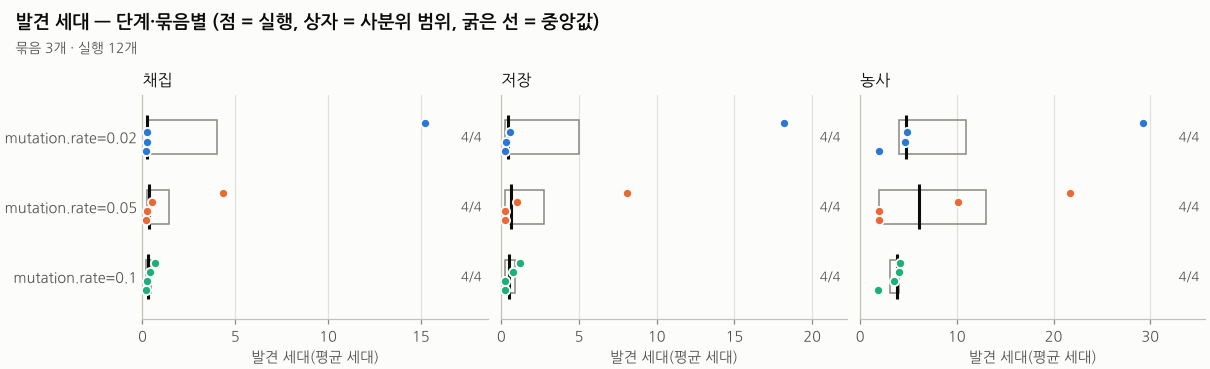
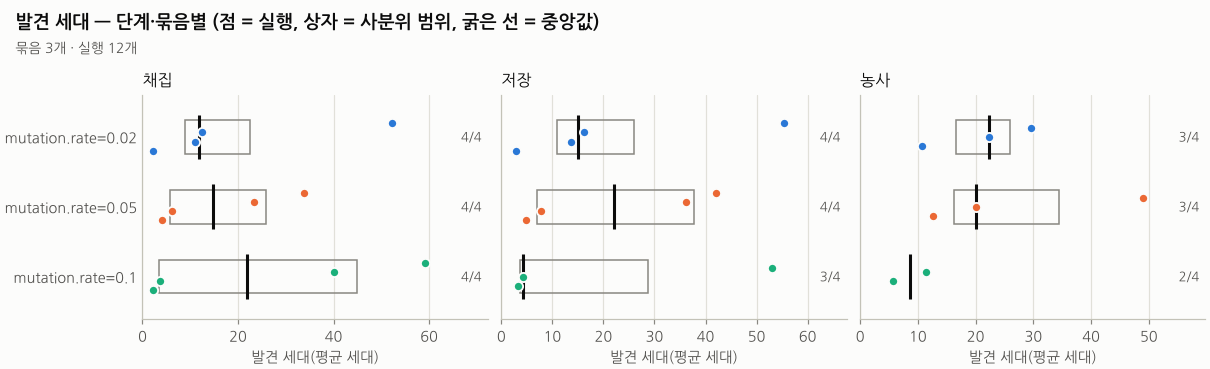
4단계: 연구용 예설정 fast_civ 다시 맞춤(발견이 진화 도중에, 100세대 안 농사 12/12)
- fast_civ: 채집 임계 120 → 280, 저장 구역 8 → 16(저장 임계 30 그대로),
  농사 셈 반경 6 → 16, 농사 임계 8 → 15. 이전 값은 demo_fast 에 그대로 있음.
- 씨앗 1~12·100세대: 채집 7.7 [5.4–14.0] · 저장 8.6 [6.3–16.5] · 농사 15.9 [12.3–26.1],
  셋 모두 12/12, 멸종 0. 즉시(2세대 안) 열림은 씨앗 7 하나(이전 값은 채집 11/12 가 즉시).
  저장·농사 중앙값은 목표보다 이르다 — 씨앗 사이 행동 빈도 차이 때문에 늦추면 도달이 깨짐(기록에 표).
- docs/TUNING-fast_civ.md: 목표, 임계를 끈 실행으로 곡선 읽는 방법, 채집·저장·농사 후보 표,
  실제 실행으로 견준 후보, 고른 값과 이유, 목표와 다른 점, 다시 재는 명령.
- test_farm_reachable: fast_civ 를 먼저(씨앗 1 이 49.0세대에 농사), 씨앗 1~3 의 채집이
  평균 2세대 이상인지도 검사(이전 값이면 실패함을 확인).
- docs/analysis/example: 조정한 fast_civ 로 다시 만듦(run 씨앗 1~8 × 100세대, sweep 돌연변이율 × 씨앗 1~4 × 60세대),
  ANALYSIS.md 의 예시·시간 문단 새 수치로.

Claude-Session: https://claude.ai/code/session_01YVqtHmSPA55UmHSj3Cd1CX

diff --git a/docs/TUNING-fast_civ.md b/docs/TUNING-fast_civ.md
@@ -1,0 +1,182 @@
+# 예설정 `fast_civ`(빠른 문명) 조정 기록
+
+연구용 예설정 `fast_civ` 를 다시 맞춘 기록입니다. 이전 값은 시연·검사용 `demo_fast` 로 그대로 옮겼습니다(검사·캡처가 "아주 빠른 발견"에 기대므로).
+
+## 고른 값
+
+```json
+"fast_civ": {
+	"label": "빠른 문명",
+	"set": {
+		"discovery.forage_threshold": 280,
+		"discovery.store_threshold": 30.0,
+		"discovery.region_size": 16,
+		"discovery.farm_radius": 16,
+		"discovery.farm_threshold": 15
+	}
+}
+```
+
+| 키 | 기본값 | 이전 fast_civ | 지금 fast_civ | 뜻 |
+| --- | ---: | ---: | ---: | --- |
+| `discovery.forage_threshold` | 300 | 120 | **280** | 채집: 배부른 줍기 시도 누적 횟수 |
+| `discovery.store_threshold` | 60 | 30 | **30** | 저장: 한 구역에 내려놓은 먹이 누적 |
+| `discovery.region_size` | 8 | 8 | **16** | 저장 구역 한 변(칸). 64×48 지도 → 8: 48구역, 16: 12구역 |
+| `discovery.farm_radius` | 6 | 6 | **16** | 농사: "저장고 근처 싹"을 세는 거리(BFS) |
+| `discovery.farm_threshold` | 15 | 8 | **15** | 농사: 그 싹의 누적 횟수 |
+
+`discovery.forage_min_energy_frac`(0.8)·`dropped.sprout_chance`(0.3)를 비롯한 나머지는 기본값 그대로입니다.
+
+## 결과 — 씨앗 1~12, 100세대
+
+`python3 tools/analyze.py run --seeds 1-12 --generations 100 --preset fast_civ --out results/fast12 --jobs 3`
+
+| 단계 | 중앙값 [Q1–Q3] (평균 세대) | 도달 | 가장 이른 · 가장 늦은 씨앗 | 목표 |
+| --- | ---: | ---: | --- | --- |
+| 채집 | **7.7** [5.4–14.0] | 12/12 | 0.24(씨앗 7) · 33.9(씨앗 1) | 5~15 — 맞음 |
+| 저장 | **8.6** [6.3–16.5] | 12/12 | 0.32(씨앗 7) · 42.1(씨앗 3) | 15~35 — **못 맞춤**(아래 "목표와 다른 점") |
+| 농사 | **15.9** [12.3–26.1] | **12/12** | 1.98(씨앗 7) · 74.3(씨앗 3) | 30~70 — **못 맞춤**, 대신 100세대 안 도달 12/12 |
+
+멸종 0/12. 2세대 안에 열린 실행(즉시 열림)은 채집·저장·농사 모두 씨앗 7 하나뿐입니다.
+
+| 씨앗 | 채집 | 저장 | 농사 | 농사 틱 | 끝 개체 | 밭 |
+| ---: | ---: | ---: | ---: | ---: | ---: | ---: |
+| 1 | 33.87 | 36.22 | 49.02 | 3,321 | 100 | 11 |
+| 2 | 4.19 | 4.84 | 12.67 | 907 | 250 | 185 |
+| 3 | 23.27 | 42.13 | 74.32 | 5,378 | 250 | 15 |
+| 4 | 6.27 | 7.77 | 19.99 | 1,414 | 207 | 53 |
+| 5 | 6.56 | 7.82 | 12.79 | 1,023 | 250 | 123 |
+| 6 | 5.86 | 6.69 | 12.45 | 981 | 250 | 191 |
+| 7 | 0.24 | 0.32 | 1.98 | 278 | 250 | 180 |
+| 8 | 15.73 | 18.25 | 23.92 | 1,524 | 224 | 7 |
+| 9 | 13.38 | 14.88 | 18.93 | 1,386 | 250 | 156 |
+| 10 | 3.36 | 5.04 | 9.73 | 779 | 250 | 63 |
+| 11 | 10.72 | 15.94 | 32.57 | 2,482 | 250 | 95 |
+| 12 | 8.92 | 9.44 | 11.81 | 904 | 250 | 214 |
+
+같은 조건의 기준선(씨앗 1~12, 100세대, 같은 도구):
+
+| 예설정 | 채집 | 저장 | 농사 | 멸종 |
+| --- | ---: | ---: | ---: | ---: |
+| 이전 `fast_civ`(= 지금 `demo_fast`) | 0.2 [0.2–0.2] (12/12) | 0.3 [0.2–0.4] (12/12) | 2.1 [1.9–4.1] (12/12) | 0/12 |
+| `default` | 9.2 [6.7–16.3] (12/12) | 14.8 [11.8–30.5] (11/12) | 38.0 [32.4–81.0] (**7/12**) | 1/12 |
+| **지금 `fast_civ`** | 7.7 [5.4–14.0] (12/12) | 8.6 [6.3–16.5] (12/12) | 15.9 [12.3–26.1] (**12/12**) | 0/12 |
+
+- 이전 값은 12개 중 11개가 채집을 0.2~0.7세대에 열었습니다 — 진화가 아니라 첫 무작위 두뇌들의 행동을 잰 셈입니다.
+- 지금 값의 채집 속도는 기본값과 거의 같고(임계 300 → 280), 차이는 **저장·농사가 거의 모든 씨앗에서 100세대 안에 온다**는 데 있습니다. 기본값은 농사 7/12(씨앗 1·3·10·11 은 100세대 안에 못 닿고 씨앗 9 는 멸종), 닿은 것 가운데 셋은 66~99세대입니다.
+- 실행 시간: 100세대 한 번에 24~58초(중앙값 44초, 4코어에서 3개 동시). 씨앗 12개 × 100세대 ≈ 3분 20초(`--jobs 3`).
+
+## 방법
+
+`tools/analyze.py sweep`(→ `docs/ANALYSIS.md`)으로 100세대씩 돌렸습니다. 처음엔 씨앗 1~8 로 거칠게, 고를 때는 씨앗 1~12. 기록 간격은 20틱(평균 세대로 약 0.2~0.3).
+
+**임계를 끈 실행으로 곡선 읽기.** 발견 임계는 `SimWorld._check_civ`·`_check_store_region` 의 비교에만 쓰이므로, 발견 전까지의 역사는 임계와 무관하게 같습니다. 그래서 임계를 아주 크게(`1000000000`) 둔 실행 하나의 `timeseries.csv` 누적 열(`forage_attempts`·`farm_sprouts`)이 "임계 T 면 언제 열리나"를 모든 T 에 대해 알려 줍니다(처음 T 이상이 된 기록 줄의 평균 세대). 농사 임계를 끈 실행에서 앞 단계는 실제로 열리므로, 저장 설정마다 한 번씩만 돌리면 농사 임계 격자를 얻습니다. 고른 값은 실제 실행으로 다시 확인했습니다(곡선 예측 농사 중앙값 16.0 → 실제 15.9, 채집 7.9 → 7.7. 차이는 기록 간격).
+
+**실제 실행으로 견준 후보**(씨앗 1~12, 100세대, 채집 에너지 하한 0.8·구역 16·저장 30 공통):
+
+| 채집 임계 | 농사 반경 · 임계 | 채집 | 저장 | 농사 | 가장 늦은 농사 | 멸종 |
+| ---: | ---: | ---: | ---: | ---: | ---: | ---: |
+| 280 | 16 · 20 | 7.7 (12/12) | 8.6 (12/12) | 17.3 [13.8–33.1] (12/12) | 82.6 | 0/12 |
+| 280 | 24 · 20 | 7.7 (12/12) | 8.6 (12/12) | 16.2 [12.5–27.1] (12/12) | 75.7 | 0/12 |
+| **280** | **16 · 15** | **7.7 (12/12)** | **8.6 (12/12)** | **15.9 [12.3–26.1] (12/12)** | **74.3** | **0/12** |
+| 300 | 16 · 20 | 9.2 (12/12) | 10.1 (12/12) | 16.0 [13.6–33.5] (12/12) | 85.0 | 0/12 |
+| 320 | 16 · 20 | 10.9 (12/12) | 11.8 (12/12) | 22.4 [16.5–33.3] (11/12) | 91.4 | 0/12 |
+
+### 1. 채집 — 첫 세대의 폭발과 그 뒤의 느린 흐름
+
+임계를 끈 실행(씨앗 1~12): 배부른 줍기 시도는 **첫 1세대 동안 104~371회**(무작위 두뇌가 쓸모없는 줍기를 자주 고름) 쌓인 뒤, 진화가 그 행동을 줄여 **5~10세대 사이에는 1~107회**로 떨어집니다. 씨앗마다 이 두 양이 크게 달라서, 누적 임계 하나로는 "폭발이 큰 씨앗은 즉시, 흐름이 느린 씨앗은 아주 늦게"가 피할 수 없습니다.
+
+| 에너지 하한 | 임계 | 중앙값 [Q1–Q3] | 2세대 전(즉시) | 30세대 넘음 | 가장 늦음 |
+| ---: | ---: | ---: | ---: | ---: | ---: |
+| 0.8 | 120 (이전) | 0.2 [0.2–0.3] | 11/12 | 0 | 4.6 |
+| 0.8 | 200 | 1.6 [0.4–2.5] | 7/12 | 0 | 14.5 |
+| 0.8 | 240 | 3.3 [1.8–7.3] | 3/12 | 0 | 23.0 |
+| 0.8 | 260 | 5.0 [2.5–10.1] | 3/12 | 0 | 24.6 |
+| 0.8 | **280** | **7.9 [5.7–14.0]** | **1/12** | **1** | **34.1** |
+| 0.8 | 300 (기본) | 9.5 [7.1–16.5] | 1/12 | 2 | 40.5 |
+| 0.8 | 320 | 11.1 [8.1–22.3] | 1/12 | 3 | 46.6 |
+| 0.8 | 360 | 16.0 [10.7–35.4] | 1/12 | 4 | 62.4 |
+| 0.8 | 400 | 20.5 [14.8–50.2] | 0/12 | 4 | 72.1 |
+| 0.85 | 220 | 8.5 [5.0–12.2] | 1/12 | 1 | 33.4 |
+| 0.85 | 260 | 14.0 [8.7–26.3] | 1/12 | 3 | 52.8 |
+| 0.9 | 200 | 11.2 [8.0–18.3] | 1/12 | 3 | 52.8 |
+| 0.9 | 240 | 17.0 [9.8–44.4] | 1/12 | 4 | 72.1 |
+
+(곡선에서 읽은 값, 20틱 해상도. 에너지 하한 = `discovery.forage_min_energy_frac`.)
+
+- 즉시 열림을 1개로 줄이는 가장 낮은 임계가 280 입니다. 씨앗 7 은 첫 세대 폭발(371회)이 커서 임계 380 이하에서는 늘 2세대 안에 엽니다.
+- 에너지 하한을 올리면(0.85·0.9) 폭발과 흐름이 **같이** 줄어 모양이 거의 같습니다(0.85·220 ≈ 0.8·280). 바꾸는 키를 줄이려고 기본값 0.8 을 두었습니다.
+- 임계 300·320 도 실제로 돌려 보았습니다(구역 16·저장 30·농사 반경 16·농사 임계 20 으로, 아래 표): 300 은 농사 12/12 이지만 씨앗 1 이 85.0·씨앗 3 이 84.6세대로 여유가 적고, 320 은 씨앗 1 이 100세대 안에 농사에 닿지 못합니다(11/12).
+
+### 2. 저장 — 구역 크기와 임계
+
+채집 280, 농사 임계를 끈 실행(씨앗 1~12). 오른쪽 열은 같은 실행에서 읽은 "농사 반경 16·임계 15 라면".
+
+| 구역 | 저장 임계 | 저장 중앙값 [Q1–Q3] | 저장 도달 | 가장 늦음 | 농사(반경 16·15) | 농사 가장 늦음 |
+| ---: | ---: | ---: | ---: | ---: | ---: | ---: |
+| 8 | 30 | 9.7 [7.2–19.9] | 12/12 | 64.1 | 17.9 (12/12) | 93.4 |
+| 8 | 60 | 14.3 [9.7–43.3] | 12/12 | 85.5 | 21.7 (9/12) | — |
+| 8 | 90 | 17.7 [15.9–23.3] | 8/12 | 45.5 | 28.6 (7/12) | — |
+| **16** | **30** | **8.6 [6.3–16.5]** | **12/12** | **42.1** | **16.0 (12/12)** | **74.3** |
+| 16 | 60 | 9.5 [8.0–19.8] | 12/12 | 70.8 | 16.0 (12/12) | 93.9 |
+| 16 | 90 | 10.4 [9.2–30.0] | 12/12 | 84.4 | 17.7 (11/12) | — |
+
+- 저장도 채집과 같은 모양입니다: 채집이 열리는 순간 줍기·내려놓기가 처음으로 효과를 내면서 내려놓기가 몰려, 대부분의 씨앗은 **채집 뒤 0.1~2.5세대 안에** 저장을 엽니다. 느린 씨앗(3·11)은 그 몰림이 작아 오래 걸립니다(구역 16·임계 30 에서 채집 뒤 18.9·5.2세대).
+- 임계를 올리면 중앙값은 조금 오르지만(구역 8: 9.7 → 17.7) 느린 씨앗이 밀려 저장·농사 도달이 깨집니다. 구역을 16 으로 키우면 흩어진 내려놓기도 한 구역에 모여 느린 씨앗 3 의 저장이 64.1 → 42.1세대로 당겨지고, 그 덕에 농사 꼬리가 줄었습니다.
+- 저장고 위치는 여전히 "그 구역에서 가장 많이 놓인 칸"입니다(구역이 커져 고르는 범위가 넓어짐). 저장고 사이 최소 거리(`store.min_spacing` 12)·최대 수(`store.max_count` 4)는 그대로.
+
+### 3. 농사 — 셈 반경과 임계
+
+채집 280 · 구역 16 · 저장 30, 농사 임계를 끈 실행(씨앗 1~12). 칸 = 농사 중앙값(도달, 가장 늦음).
+
+| 반경 | 임계 15 | 임계 20 | 임계 25 | 임계 30 | 임계 40 | 임계 60 |
+| ---: | ---: | ---: | ---: | ---: | ---: | ---: |
+| **16** | **16.0 (12/12, 74.3)** | 17.3 (12/12, 82.7) | 18.8 (12/12, 88.4) | 21.6 (11/12) | 26.9 (10/12) | 31.8 (8/12) |
+| 24 | 14.5 (12/12, 69.6) | 16.4 (12/12, 75.7) | 18.0 (12/12, 87.0) | 18.9 (12/12, 89.7) | 20.8 (10/12) | 26.3 (9/12) |
+| 32 | 13.9 (12/12, 66.3) | 16.2 (12/12, 74.0) | 18.0 (12/12, 77.3) | 18.9 (12/12, 87.0) | 22.5 (12/12, 92.8) | 26.4 (10/12) |
+| 40 | 12.7 (12/12, 63.2) | 16.0 (12/12, 71.7) | 17.3 (12/12, 75.7) | 18.4 (12/12, 82.5) | 22.3 (12/12, 89.7) | 22.7 (11/12) |
+| 64 | 12.7 (12/12, 57.9) | 16.0 (12/12, 63.9) | 17.3 (12/12, 67.5) | 18.4 (12/12, 73.4) | 22.3 (12/12, 78.8) | 28.1 (12/12, 92.5) |
+
+참고(씨앗 1~8, 구역 8·저장 30): 기본 반경 6 으로는 임계 8 에서도 6/8, 임계 15 면 6/8·중앙값 50.7. 반경 10·임계 10 은 8/8 이지만 가장 늦은 씨앗이 99.5세대.
+
+고르는 규칙: **12/12 도달 + 가장 늦은 씨앗이 80세대 안(보지 못한 씨앗을 위한 여유 20세대)** 인 칸 가운데 중앙값이 큰 것, 비슷하면 반경이 작은 것. 반경 64(지도 전체)·임계 40 이 22.3세대로 가장 크지만, 반경이 지도만 하면 "저장고 **근처** 싹"이라는 규칙의 뜻이 사라집니다. 반경 24~40 은 같은 임계에서 오히려 0~3세대 이르고(넓을수록 싹이 빨리 쌓임), 임계를 올려 맞추면(반경 24·임계 20 = 16.4, 가장 늦음 75.7) 반경 16·임계 15 와 거의 같은 분포가 됩니다. 그래서 기본 규칙에서 가장 덜 벗어나는 **반경 16 · 임계 15(기본값과 같은 임계)** 를 골랐습니다. 반경 16 은 저장고 하나 둘레 최대 545칸(지도 3,072칸의 18%)입니다.
+
+### 버린 것
+
+| 시도 | 결과 | 버린 이유 |
+| --- | --- | --- |
+| `dropped.sprout_chance` 0.3 → 0.5 (씨앗 1~8, 반경 10·16) | 씨앗 8 멸종(약 40세대), 씨앗 3 저장 64.1 → 98.6세대, 씨앗 1 끝 개체 27 | 싹은 발견 계수만이 아니라 먹이·비옥도도 바꿔 생태가 흔들림 |
+| 채집 임계 120~260 | 즉시 열림 3~11/12 | 목표("진화 도중") 위반 |
+| 저장 임계 60~90 | 저장 중앙값은 조금 오르지만(9.5~17.7) 농사 도달 7~11/12(구역 8·임계 60~90, 구역 16·임계 90), 또는 가장 늦은 농사 93.9세대(구역 16·임계 60) | 도달 우선 |
+| 농사 임계 25~60(반경 16~24) | 중앙값 18~32 로 오르지만 도달 8~11/12, 또는 12/12 라도 가장 늦은 씨앗 87~90세대 | 도달 우선(여유 부족) |
+
+## 목표와 다른 점 (정직하게)
+
+- **저장 중앙값 8.6(목표 15~35)·농사 15.9(목표 30~70)는 목표보다 이릅니다.** 씨앗마다 행동 빈도가 수십 배 달라(5~10세대 사이 줍기 시도 1~107회, 농사 임계를 끈 실행의 100세대까지 저장고 근처 싹 27~200개) 어느 임계든 "빠른 씨앗은 금방, 느린 씨앗은 아주 늦게"가 됩니다. 빠른 씨앗을 목표만큼 늦추면 느린 씨앗(1·3·8·11)이 100세대를 넘깁니다. 이 조정은 **100세대 안 도달(12/12)과 즉시 열림 최소화**를 앞에 두었습니다.
+- 참고로 기본값의 저장 중앙값(14.8)도 이미 목표 하한 아래입니다 — 저장은 채집 직후에 오는 구조입니다.
+- **씨앗 7** 은 채집·저장·농사가 모두 2세대 안(이전 값과 같은 꼴). 첫 세대 폭발이 커서 채집 임계 380 이하에서는 피할 수 없습니다(12개 중 1개).
+- **느린 씨앗 3** 은 농사 74.3세대(밭 15칸), 씨앗 1 은 끝 개체 100·밭 11칸. "모두 농사"이지만 농사가 자리 잡는 정도는 씨앗마다 크게 다릅니다(밭 7~214칸).
+- 농사 임계를 끈 실행(저장 단계에 오래 머묾)에서는 12개 중 1~2개가 멸종했지만, 고른 값의 실제 실행 12개는 멸종 0 입니다. 밭이 먹이를 보태기 때문으로 보이나 따로 확인하지는 않았습니다.
+- 씨앗 12개는 여전히 적습니다. 13번 이후 씨앗 가운데 100세대 안에 농사에 닿지 못하는 것이 있을 수 있습니다(지금 가장 늦은 씨앗 3 이 74.3세대).
+- 시뮬레이션 코드나 `config/sim-defaults.json` 이 바뀌면 이 수치는 다시 재야 합니다(아래 명령).
+- 근본 해결은 코드 쪽입니다(이 조정의 범위 밖, 제안만): 채집 시도를 1세대 이상 개체만 세거나, 누적 대신 최근 N틱 비율로 판정하면 첫 세대 폭발 문제가 없어집니다. 저장(채집 직후 내려놓기 몰림)도 같은 방식으로 다룰 수 있습니다.
+
+## 검사
+
+`tests/run_tests.gd` 의 `test_farm_reachable`(느린 검사, `--skip-slow` 이면 건너뜀)이 `fast_civ` 를 먼저 봅니다: 씨앗 1 이 평균 100세대 안에 농사(지금 3,321틱·49.0세대), 그리고 씨앗 1~3 의 채집이 모두 평균 2세대 이상(지금 33.9·4.2·23.3). 이전 값(채집 120·저장 30·농사 8)을 넣으면 두 번째 검사가 실패함(4.35·0.22·0.49)을 확인했습니다. 4코어 컨테이너에서 약 20초.
+
+## 다시 재기
+
+```bash
+# 고른 값 확인(약 3분 20초)
+python3 tools/analyze.py run --seeds 1-12 --generations 100 --preset fast_civ --out results/fast12 --jobs 3 --no-plots
+# 채집 곡선(임계를 끔): forage_attempts 열에서 임계별 발견 세대를 읽는다
+python3 tools/analyze.py sweep --param discovery.forage_min_energy_frac=0.8,0.85,0.9 \
+  --set discovery.forage_threshold=1000000000 --seeds 1-12 --generations 100 --out results/forage-curve --jobs 3 --no-report
+# 저장 격자 + 농사 곡선(농사 임계를 끔): farm_sprouts 열에서 농사 임계별 세대를 읽는다
+python3 tools/analyze.py sweep --param discovery.region_size=8,16 --param discovery.store_threshold=30,60,90 \
+  --set discovery.forage_threshold=280 --set discovery.farm_radius=16 --set discovery.farm_threshold=1000000000 \
+  --seeds 1-12 --generations 100 --out results/store-grid --jobs 3 --no-plots
+```
+
+곡선 읽기: 실행 폴더의 `timeseries.csv` 에서 `forage_attempts ≥ T`(농사는 `civ_stage ≥ 2` 이고 `farm_sprouts ≥ F`)인 첫 줄의 `mean_gen`.

diff --git a/docs/analysis/example/sweep/report.md b/docs/analysis/example/sweep/report.md
@@ -1,16 +1,16 @@
 # 실험 분석 보고서
 
 - 결과 폴더: `analysis-sweep` — 실행 **12개**, 묶음 **3개**
-- 예설정 `fast_civ` · 목표 평균 세대 30.0 · 덮어쓰기 묶음마다 다름(`summary.csv` 의 `overrides` 열)
+- 예설정 `fast_civ` · 목표 평균 세대 60.0 · 덮어쓰기 묶음마다 다름(`summary.csv` 의 `overrides` 열)
 - 표: [`summary.csv`](summary.csv)(실행마다 한 줄), [`cells.csv`](cells.csv)(묶음별 집계). 만든 명령: `python3 tools/analyze.py report <결과 폴더>`
 
 ## 묶음별 요약
 
 | 묶음 | 실행 | 멸종 | 채집 도달 | 저장 도달 | 농사 도달 | 끝 평균 세대(중앙값) | 틱(중앙값) | 끝 개체 수(중앙값) | 실행 시간 합(초) |
 | --- | ---: | ---: | ---: | ---: | ---: | ---: | ---: | ---: | ---: |
-| `mutation.rate=0.02` | 4 | 0% (0/4) | 100% (4/4) | 100% (4/4) | 100% (4/4) | 30.0 | 2,262 | 205 | 23.7 |
-| `mutation.rate=0.05` | 4 | 0% (0/4) | 100% (4/4) | 100% (4/4) | 100% (4/4) | 30.0 | 2,154 | 114 | 22.8 |
-| `mutation.rate=0.1` | 4 | 25% (1/4) | 100% (4/4) | 100% (4/4) | 100% (4/4) | 30.0 | 2,020 | 96 | 17.9 |
+| `mutation.rate=0.02` | 4 | 0% (0/4) | 100% (4/4) | 100% (4/4) | 75% (3/4) | 60.0 | 4,328 | 250 | 84.1 |
+| `mutation.rate=0.05` | 4 | 0% (0/4) | 100% (4/4) | 100% (4/4) | 75% (3/4) | 60.0 | 4,266 | 242 | 86.0 |
+| `mutation.rate=0.1` | 4 | 0% (0/4) | 100% (4/4) | 75% (3/4) | 50% (2/4) | 60.0 | 4,257 | 242 | 82.1 |
 
 ## 발견 세대
 
@@ -18,26 +18,26 @@
 
 | 묶음 | 채집 | 저장 | 농사 |
 | --- | ---: | ---: | ---: |
-| `mutation.rate=0.02` | 0.2 [0.2–4.0] (4/4) | 0.4 [0.3–5.0] (4/4) | 4.8 [4.0–11.0] (4/4) |
-| `mutation.rate=0.05` | 0.4 [0.2–1.5] (4/4) | 0.6 [0.3–2.8] (4/4) | 6.1 [2.0–13.1] (4/4) |
-| `mutation.rate=0.1` | 0.3 [0.2–0.5] (4/4) | 0.5 [0.2–0.9] (4/4) | 3.8 [3.1–4.1] (4/4) |
+| `mutation.rate=0.02` | 11.8 [8.8–22.4] (4/4) | 14.9 [11.0–26.0] (4/4) | 22.4 [16.5–26.0] (3/4) |
+| `mutation.rate=0.05` | 14.8 [5.8–25.9] (4/4) | 22.0 [7.0–37.7] (4/4) | 20.0 [16.3–34.5] (3/4) |
+| `mutation.rate=0.1` | 21.9 [3.4–44.8] (4/4) | 4.3 [3.7–28.7] (3/4) | 8.6 [7.2–10.0] (2/4) |
 
 ## 실행별 결과
 
 | 묶음 | 씨앗 | 끝난 이유 | 틱 | 평균 세대 | 개체 | 최고 | 단계 | 채집 세대 | 저장 세대 | 농사 세대 | 끝 크기 | 끝 감지 | 시간(초) | 해시 |
 | --- | ---: | --- | ---: | ---: | ---: | ---: | --- | ---: | ---: | ---: | ---: | ---: | ---: | --- |
-| `mutation.rate=0.02` | 1 | 세대 도달 | 2,480 | 30.0 | 7 | 250 | 농사 | 15.25 | 18.21 | 29.27 | 1.00 | 3.00 | 3.6 | `6b6cc049c34c` |
-| `mutation.rate=0.02` | 2 | 세대 도달 | 2,293 | 30.0 | 250 | 250 | 농사 | 0.23 | 0.26 | 1.95 | 1.00 | 3.00 | 7.4 | `23b2a9b73b88` |
-| `mutation.rate=0.02` | 3 | 세대 도달 | 2,078 | 30.0 | 160 | 250 | 농사 | 0.26 | 0.57 | 4.88 | 1.00 | 3.00 | 5.7 | `1ee0b1f23a64` |
-| `mutation.rate=0.02` | 4 | 세대 도달 | 2,230 | 30.0 | 250 | 250 | 농사 | 0.20 | 0.27 | 4.65 | 1.01 | 3.00 | 7.1 | `cac5f0759444` |
-| `mutation.rate=0.05` | 1 | 세대 도달 | 2,239 | 30.0 | 48 | 250 | 농사 | 4.35 | 8.10 | 21.71 | 1.00 | 3.00 | 4.2 | `a487ad2cbf5b` |
-| `mutation.rate=0.05` | 2 | 세대 도달 | 2,281 | 30.0 | 250 | 250 | 농사 | 0.22 | 0.25 | 2.00 | 0.99 | 3.01 | 7.9 | `4cbbd4cfbf55` |
-| `mutation.rate=0.05` | 3 | 세대 도달 | 2,069 | 30.0 | 65 | 250 | 농사 | 0.49 | 0.99 | 10.17 | 0.98 | 3.00 | 4.8 | `8bec292f553a` |
-| `mutation.rate=0.05` | 4 | 세대 도달 | 2,035 | 30.0 | 164 | 250 | 농사 | 0.21 | 0.26 | 1.95 | 1.00 | 3.00 | 5.9 | `e6496485915f` |
-| `mutation.rate=0.1` | 1 | 세대 도달 | 1,945 | 30.0 | 85 | 250 | 농사 | 0.68 | 1.19 | 3.52 | 1.00 | 3.04 | 3.9 | `28bf76358812` |
-| `mutation.rate=0.1` | 2 | 세대 도달 | 2,398 | 30.0 | 250 | 250 | 농사 | 0.20 | 0.22 | 4.05 | 0.98 | 3.00 | 8.6 | `b9db1978e98c` |
-| `mutation.rate=0.1` | 3 | 멸종 | 1,007 | 12.0 | 0 | 250 | 농사 | 0.42 | 0.77 | 4.13 | 1.00 | 3.00 | 1.7 | `fa92f30e1361` |
-| `mutation.rate=0.1` | 4 | 세대 도달 | 2,094 | 30.0 | 108 | 250 | 농사 | 0.22 | 0.26 | 1.89 | 0.96 | 3.05 | 3.7 | `507b5f6060b3` |
+| `mutation.rate=0.02` | 1 | 세대 도달 | 4,352 | 60.1 | 28 | 250 | 저장 | 52.16 | 55.44 | — | 1.01 | 3.00 | 12.0 | `e8d89855ea0b` |
+| `mutation.rate=0.02` | 2 | 세대 도달 | 4,081 | 60.0 | 250 | 250 | 농사 | 11.04 | 16.22 | 29.53 | 0.96 | 3.00 | 22.9 | `4a656173a145` |
+| `mutation.rate=0.02` | 3 | 세대 도달 | 4,305 | 60.0 | 250 | 250 | 농사 | 12.54 | 13.66 | 22.40 | 0.96 | 3.00 | 23.9 | `efddbf2e7e8b` |
+| `mutation.rate=0.02` | 4 | 세대 도달 | 4,510 | 60.0 | 250 | 250 | 농사 | 2.22 | 2.86 | 10.70 | 1.00 | 3.00 | 25.3 | `ffe747d3a24c` |
+| `mutation.rate=0.05` | 1 | 세대 도달 | 3,966 | 60.0 | 52 | 250 | 농사 | 33.87 | 36.22 | 49.02 | 1.00 | 3.00 | 13.8 | `882e526e4f2b` |
+| `mutation.rate=0.05` | 2 | 세대 도달 | 4,703 | 60.0 | 250 | 250 | 농사 | 4.19 | 4.84 | 12.67 | 0.98 | 3.00 | 28.7 | `d343eaa7762e` |
+| `mutation.rate=0.05` | 3 | 세대 도달 | 4,304 | 60.0 | 233 | 250 | 저장 | 23.27 | 42.13 | — | 0.90 | 2.97 | 23.0 | `00eecc779cb3` |
+| `mutation.rate=0.05` | 4 | 세대 도달 | 4,228 | 60.0 | 250 | 250 | 농사 | 6.27 | 7.77 | 19.99 | 0.96 | 3.00 | 20.5 | `89476ad96982` |
+| `mutation.rate=0.1` | 1 | 세대 도달 | 3,718 | 60.0 | 88 | 250 | 채집 | 59.25 | — | — | 0.89 | 3.00 | 10.6 | `3f7b4998fae9` |
+| `mutation.rate=0.1` | 2 | 세대 도달 | 4,957 | 60.0 | 250 | 250 | 농사 | 2.24 | 3.20 | 5.76 | 0.95 | 3.00 | 28.5 | `5f9913fe8d9e` |
+| `mutation.rate=0.1` | 3 | 세대 도달 | 4,264 | 60.0 | 235 | 250 | 저장 | 40.02 | 53.12 | — | 0.98 | 2.63 | 20.6 | `30ad06a0daac` |
+| `mutation.rate=0.1` | 4 | 세대 도달 | 4,250 | 60.0 | 250 | 250 | 농사 | 3.73 | 4.26 | 11.36 | 0.93 | 2.98 | 22.4 | `657307bbf93b` |
 
 ## 그림
 

diff --git a/docs/ANALYSIS.md b/docs/ANALYSIS.md
@@ -119,7 +119,7 @@ OUT/
 
 ## 주의
 
-- **시간:** 기본 설정에서 실행 하나가 평균 약 250틱/초, 세대당 약 110틱 → **세대당 약 0.45초**(1,000세대 ≈ 7.4분, `docs/TEST-REPORT.md`). 전체 ≈ 묶음 수 × 씨앗 수 × 세대 × 0.45초 ÷ `--jobs`. CPU 코어보다 `--jobs` 를 크게 주면 빨라지지 않습니다. `fast_civ` 40세대 씨앗 4개는 4코어에서 약 15초.
+- **시간:** 기본 설정에서 실행 하나가 평균 약 250틱/초, 세대당 약 110틱 → **세대당 약 0.45초**(1,000세대 ≈ 7.4분, `docs/TEST-REPORT.md`). 전체 ≈ 묶음 수 × 씨앗 수 × 세대 × 0.45초 ÷ `--jobs`. CPU 코어보다 `--jobs` 를 크게 주면 빨라지지 않습니다. `fast_civ` 100세대 씨앗 12개는 4코어에서 `--jobs 3` 으로 약 3분 20초(실행 하나 24~58초).
 - **`run_seconds`** 는 동시에 돌던 다른 실행과 CPU 를 나눈 시간입니다. 성능 비교에는 `--jobs 1` 로.
 - **결정성:** 같은 씨앗·같은 설정·같은 코드면 역사 해시가 같습니다(병렬로 돌려도). 같은 결과 폴더로 `report` 를 다시 만들면 `summary.csv`·`cells.csv`·`report.md` 는 바이트까지 같습니다(검사함. `summary.csv`·`cells.csv` 는 pandas 2.2 와 3.0 사이에서도 같음을 확인). 실행을 다시 돌리면 `run_seconds` 만 달라집니다. 해시가 다르면 설정이나 코드가 다른 것입니다.
 - **중도 절단:** 목표 세대에서 멈추므로, 그보다 늦게 올 발견은 "도달 못 함"으로 셉니다. 늦은 단계를 비교할 때는 목표 세대를 넉넉히.
@@ -134,14 +134,14 @@ OUT/
 이 저장소에 함께 올린 작은 예시입니다(원본 실행 폴더는 올리지 않음, 보고서·표·그림만).
 
 ```bash
-python3 tools/analyze.py run   --seeds 1-4 --generations 40 --preset fast_civ --out results/example-run --jobs 4
-python3 tools/analyze.py sweep --param mutation.rate=0.02,0.05,0.1 --seeds 1-4 --generations 30 --preset fast_civ \
-                               --out results/example-sweep --jobs 4
+python3 tools/analyze.py run   --seeds 1-8 --generations 100 --preset fast_civ --out results/example-run --jobs 3
+python3 tools/analyze.py sweep --param mutation.rate=0.02,0.05,0.1 --seeds 1-4 --generations 60 --preset fast_civ \
+                               --out results/example-sweep --jobs 3
 ```
 
-- [`run/report.md`](analysis/example/run/report.md) — `fast_civ` 씨앗 4개 × 40세대. 4개 모두 농사까지 도달, 농사 발견 세대 중앙값 6.1(씨앗별 21.7 · 2.0 · 10.2 · 1.95). 씨앗 1 의 21.7세대는 규칙 검사 S15(`docs/TEST-REPORT.md`)와 같은 값입니다(결정성).
-- [`sweep/report.md`](analysis/example/sweep/report.md) — 돌연변이율 0.02·0.05·0.1 × 씨앗 4개 × 30세대. 0.1 에서 씨앗 3 이 멸종(1,007틱, 멸종 직전 평균 12세대). 씨앗 4개라 칸 사이 차이는 아직 결론이 아닙니다.
-- 읽을거리: `fast_civ` 의 채집 임계(배부른 줍기 시도 120회)는 씨앗 2·4 처럼 **약 0.2세대 만에** 넘기도 합니다. 이 예설정에서 채집 발견 세대는 진화보다 첫 개체들의 무작위 행동을 더 많이 반영한다는 뜻입니다.
+- [`run/report.md`](analysis/example/run/report.md) — `fast_civ`(조정 기록 [`TUNING-fast_civ.md`](TUNING-fast_civ.md)) 씨앗 8개 × 100세대. 8개 모두 농사까지 도달, 멸종 없음. 발견 세대 중앙값 채집 6.4 · 저장 7.8 · 농사 16.4(씨앗별 농사 49.0 · 12.7 · 74.3 · 20.0 · 12.8 · 12.5 · 2.0 · 23.9). 씨앗 1 의 농사(3,321틱, 49.0세대)는 규칙 검사 S15(`test_farm_reachable`)가 같은 씨앗으로 다시 얻는 값입니다(결정성).
+- [`sweep/report.md`](analysis/example/sweep/report.md) — 돌연변이율 0.02·0.05·0.1 × 씨앗 4개 × 60세대. 멸종 없음, 농사 도달 3/4 · 3/4 · 2/4(60세대에서 멈추므로 늦은 씨앗은 "도달 못 함" — 중도 절단). 0.05(기본값과 같음) 칸은 위 `run` 의 씨앗 1~4 와 60세대까지 같은 역사입니다(발견 세대가 같음). 0.1 에서 씨앗 1 은 채집이 59.3세대에야 열립니다(0.05 에서 33.9). 씨앗 4개라 칸 사이 차이는 아직 결론이 아닙니다.
+- 읽을거리: 조정한 `fast_civ` 에서도 씨앗 7 은 채집·저장·농사를 모두 **2세대 안에** 엽니다(첫 세대 무작위 두뇌의 배부른 줍기 시도가 371회로 임계 280 을 바로 넘음). 반대로 씨앗 1·3 은 채집 23~34세대, 농사 49~74세대입니다. 같은 설정에서도 씨앗 사이 퍼짐이 이렇게 크므로 씨앗을 넉넉히 쓰세요(분포와 그 까닭은 [`TUNING-fast_civ.md`](TUNING-fast_civ.md)).
 
 ![발견 세대 — 돌연변이율 격자](analysis/example/sweep/discovery.png)
 

diff --git a/docs/analysis/example/run/report.md b/docs/analysis/example/run/report.md
@@ -1,14 +1,14 @@
 # 실험 분석 보고서
 
-- 결과 폴더: `analysis-example` — 실행 **4개**, 묶음 **1개**
-- 예설정 `fast_civ` · 목표 평균 세대 40.0 · 덮어쓰기 없음
+- 결과 폴더: `analysis-example` — 실행 **8개**, 묶음 **1개**
+- 예설정 `fast_civ` · 목표 평균 세대 100.0 · 덮어쓰기 없음
 - 표: [`summary.csv`](summary.csv)(실행마다 한 줄), [`cells.csv`](cells.csv)(묶음별 집계). 만든 명령: `python3 tools/analyze.py report <결과 폴더>`
 
 ## 묶음별 요약
 
 | 묶음 | 실행 | 멸종 | 채집 도달 | 저장 도달 | 농사 도달 | 끝 평균 세대(중앙값) | 틱(중앙값) | 끝 개체 수(중앙값) | 실행 시간 합(초) |
 | --- | ---: | ---: | ---: | ---: | ---: | ---: | ---: | ---: | ---: |
-| `fast_civ` | 4 | 0% (0/4) | 100% (4/4) | 100% (4/4) | 100% (4/4) | 40.0 | 2,760 | 250 | 33.1 |
+| `fast_civ` | 8 | 0% (0/8) | 100% (8/8) | 100% (8/8) | 100% (8/8) | 100.0 | 7,548 | 250 | 358.5 |
 
 ## 발견 세대
 
@@ -16,16 +16,20 @@
 
 | 묶음 | 채집 | 저장 | 농사 |
 | --- | ---: | ---: | ---: |
-| `fast_civ` | 0.4 [0.2–1.5] (4/4) | 0.6 [0.3–2.8] (4/4) | 6.1 [2.0–13.1] (4/4) |
+| `fast_civ` | 6.4 [5.4–17.6] (8/8) | 7.8 [6.2–22.7] (8/8) | 16.4 [12.6–30.2] (8/8) |
 
 ## 실행별 결과
 
 | 묶음 | 씨앗 | 끝난 이유 | 틱 | 평균 세대 | 개체 | 최고 | 단계 | 채집 세대 | 저장 세대 | 농사 세대 | 끝 크기 | 끝 감지 | 시간(초) | 해시 |
 | --- | ---: | --- | ---: | ---: | ---: | ---: | --- | ---: | ---: | ---: | ---: | ---: | ---: | --- |
-| `fast_civ` | 1 | 세대 도달 | 2,793 | 40.0 | 204 | 250 | 농사 | 4.35 | 8.10 | 21.71 | 1.00 | 3.00 | 5.7 | `e10377e6fbb8` |
-| `fast_civ` | 2 | 세대 도달 | 3,243 | 40.0 | 250 | 250 | 농사 | 0.22 | 0.25 | 2.00 | 0.99 | 3.02 | 12.0 | `f558c1f34205` |
-| `fast_civ` | 3 | 세대 도달 | 2,727 | 40.0 | 250 | 250 | 농사 | 0.49 | 0.99 | 10.17 | 0.97 | 3.00 | 6.9 | `5d3696124a2a` |
-| `fast_civ` | 4 | 세대 도달 | 2,726 | 40.0 | 250 | 250 | 농사 | 0.21 | 0.26 | 1.95 | 1.00 | 3.00 | 8.6 | `a0a4eae64847` |
+| `fast_civ` | 1 | 세대 도달 | 6,468 | 100.1 | 100 | 250 | 농사 | 33.87 | 36.22 | 49.02 | 0.99 | 3.00 | 25.5 | `5c082cae55cd` |
+| `fast_civ` | 2 | 세대 도달 | 8,870 | 100.0 | 250 | 250 | 농사 | 4.19 | 4.84 | 12.67 | 0.94 | 3.00 | 57.8 | `12fb7a5f721b` |
+| `fast_civ` | 3 | 세대 도달 | 7,534 | 100.0 | 250 | 250 | 농사 | 23.27 | 42.13 | 74.32 | 0.87 | 3.00 | 44.3 | `a75a3a9781e5` |
+| `fast_civ` | 4 | 세대 도달 | 7,266 | 100.0 | 207 | 250 | 농사 | 6.27 | 7.77 | 19.99 | 0.98 | 3.00 | 41.5 | `01ada62ed001` |
+| `fast_civ` | 5 | 세대 도달 | 7,561 | 100.0 | 250 | 250 | 농사 | 6.56 | 7.82 | 12.79 | 0.96 | 2.92 | 44.0 | `0a3350f8916e` |
+| `fast_civ` | 6 | 세대 도달 | 8,608 | 100.0 | 250 | 250 | 농사 | 5.86 | 6.69 | 12.45 | 0.86 | 2.85 | 54.5 | `6f2b5f3c84e7` |
+| `fast_civ` | 7 | 세대 도달 | 8,994 | 100.0 | 250 | 250 | 농사 | 0.24 | 0.32 | 1.98 | 0.92 | 2.67 | 58.3 | `29c2157aafa5` |
+| `fast_civ` | 8 | 세대 도달 | 6,445 | 100.0 | 224 | 250 | 농사 | 15.73 | 18.25 | 23.92 | 0.94 | 3.00 | 32.6 | `fb4f103ddde3` |
 
 ## 그림
 
